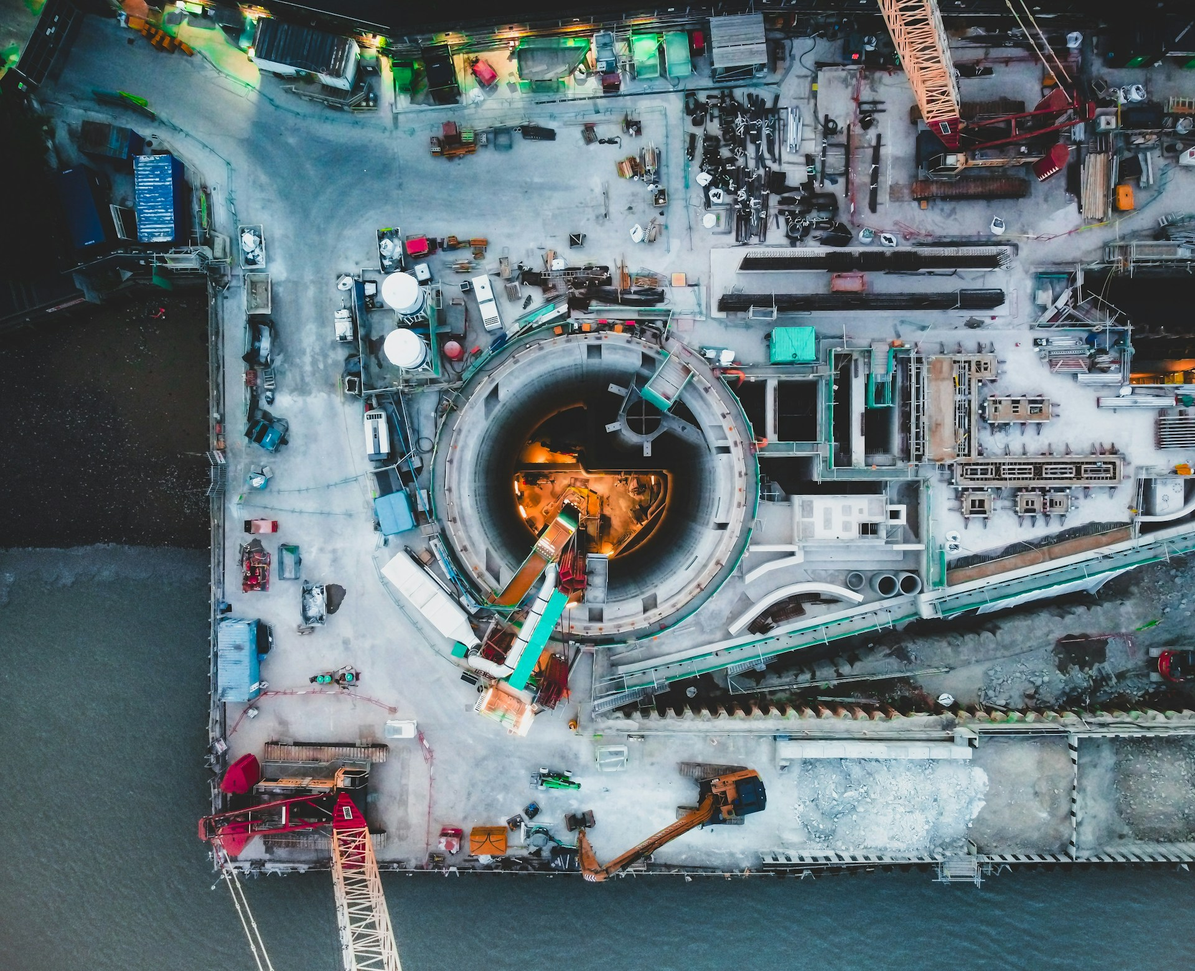
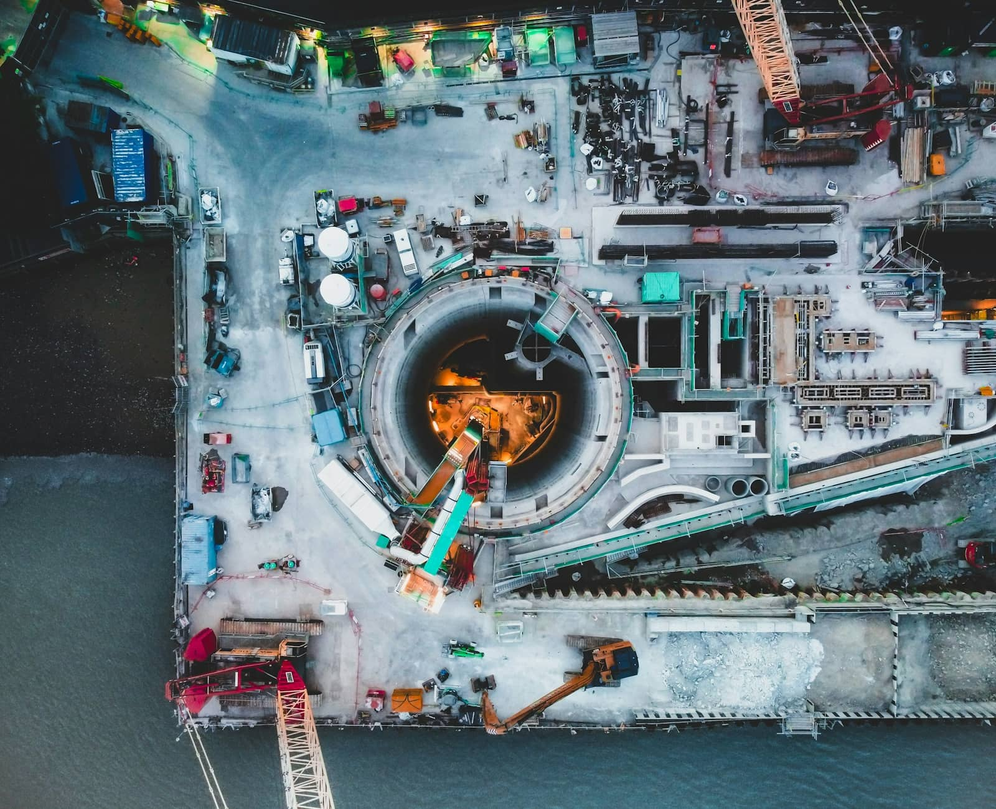
SEO, performance, conversion, and mobile-friendliness overhaul.
SEO:
- Sync FAQPage JSON-LD to the 4 on-page FAQ collection entries (was 2 stale
  hardcoded questions that didn't match visible content)
- Normalize all structured-data URLs to https://nodigsewerfix.com/ (trailing
  slash matches canonical and trailingSlash: "always")
- Shorten title to 62 chars and description to 143 chars for full SERP display;
  add price to meta description for qualified click-through
- Add theme-color, apple-touch-icon, primaryImageOfPage, WebSite.publisher,
  Organization.logo; max-snippet robots directive

Performance (Lighthouse mobile 81→94, desktop 100):
- Self-host Inter + Space Grotesk via @fontsource (removes render-blocking
  Google Fonts chain, ~450ms LCP savings)
- Load Font Awesome async (media=print + noscript fallback)
- Compress hero 798KB→268KB (1600w) and add 800w mobile variant with
  srcset/sizes + preload; add dedicated 1200x630 og-image.jpg
- Add npm run optimize:images (sharp) with source kept in assets/

Mobile-friendliness (verified at 320px and 375px):
- Fix nav overflow: shrink brand on xs, hide desktop-only CTA below md
- Hero h1 text-[28px] on smallest breakpoints; badge uses py-2 not fixed h-8
- Add sticky bottom CTA bar with price (safe-area aware) + footer clearance

Conversion:
- Sticky mobile inquire bar showing asking price
- Price + escrow trust line under hero CTAs
- Replace hypothetical 5-star testimonial with honest positioning block
- Raise all CTA/label colors to WCAG AA contrast (accessibility 95→100)
[…]

diff --git a/src/config/site.ts b/src/config/site.ts
@@ -1,10 +1,11 @@
 export const SITE = {
   name: 'nodigsewerfix.com',
-  title:
-    'nodigsewerfix.com • Premium Domain for Sale | Trenchless Sewer Repair & CIPP Pipe Lining',
+  title: 'nodigsewerfix.com — Premium Domain for Sale | Trenchless Sewer',
   description:
-    'Own nodigsewerfix.com — the exact-match .com domain for trenchless sewer repair, CIPP pipe lining, and no-dig sewer fix companies. Instant brand recognition in a high-growth home services niche.',
+    'nodigsewerfix.com is for sale — the exact-match .com domain for trenchless sewer repair, CIPP pipe lining, and no-dig sewer fix. Asking $9,995.',
   url: 'https://nodigsewerfix.com',
+  /** Canonical root URL with trailing slash (matches trailingSlash: "always") */
+  rootUrl: 'https://nodigsewerfix.com/',
   email: 'sales@desertrich.com',
   locale: 'en_US',
   location: 'United States',
@@ -24,7 +25,11 @@ export function cfImageUrl(imageId: string, variant = 'public'): string {
 /** London super-sewer tunnel construction — sewer infrastructure hero */
 export const HERO_IMAGE = `${SITE.url}/images/hero-sewer.jpg`;
 
-export const OG_IMAGE = HERO_IMAGE;
+/** Responsive hero sources (1600w desktop / 800w mobile) */
+export const HERO_SRCSET = '/images/hero-sewer-800.jpg 800w, /images/hero-sewer.jpg 1600w';
+
+/** Dedicated 1200×630 Open Graph / Twitter card image */
+export const OG_IMAGE = `${SITE.url}/images/og-image.jpg`;
 
 export const ACQUISITION_MAILTO = `mailto:${SITE.email}?subject=${encodeURIComponent('nodigsewerfix.com Domain Acquisition Inquiry')}&body=${encodeURIComponent('Hello,\n\nI am interested in acquiring nodigsewerfix.com.\n\nIntended use:\nBudget range:\n\nThank you.')}`;
 

diff --git a/src/styles/global.css b/src/styles/global.css
@@ -1,5 +1,3 @@
-@import url('https://fonts.googleapis.com/css2?family=Inter:wght@300;400;500;600;700&family=Space+Grotesk:wght@500;600;700&display=swap');
-
 @tailwind base;
 @tailwind components;
 @tailwind utilities;
